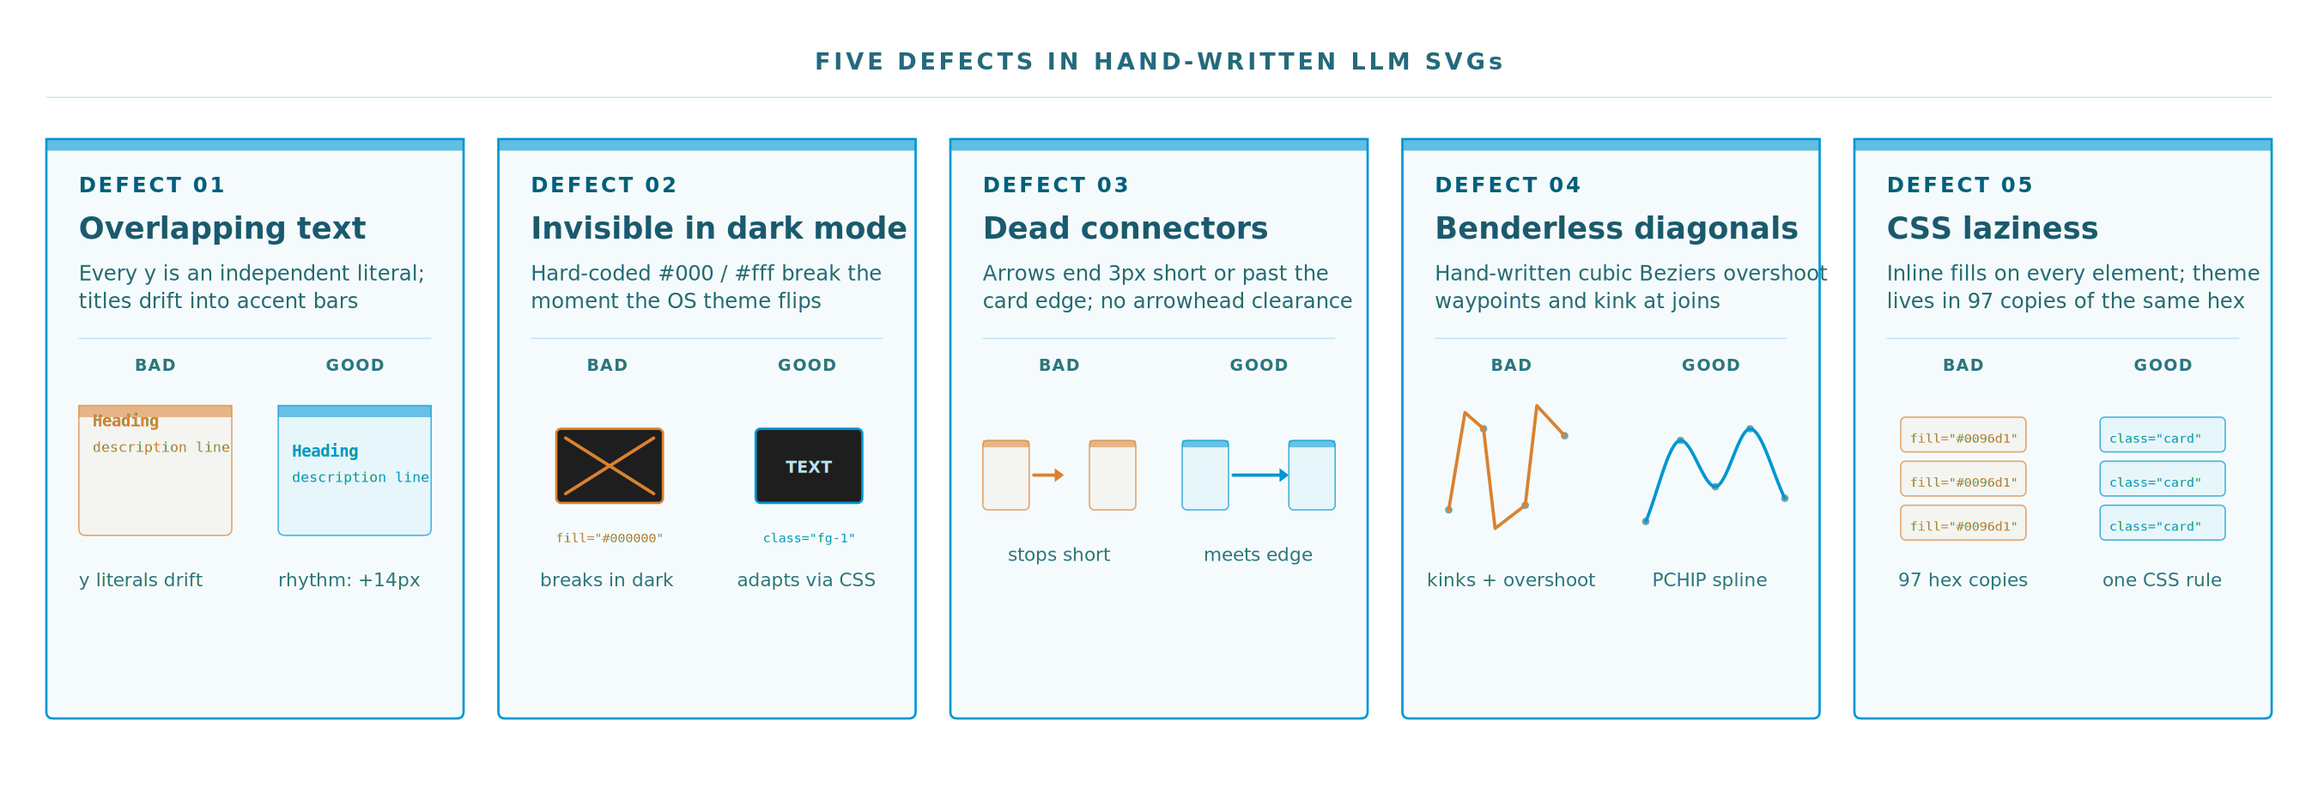
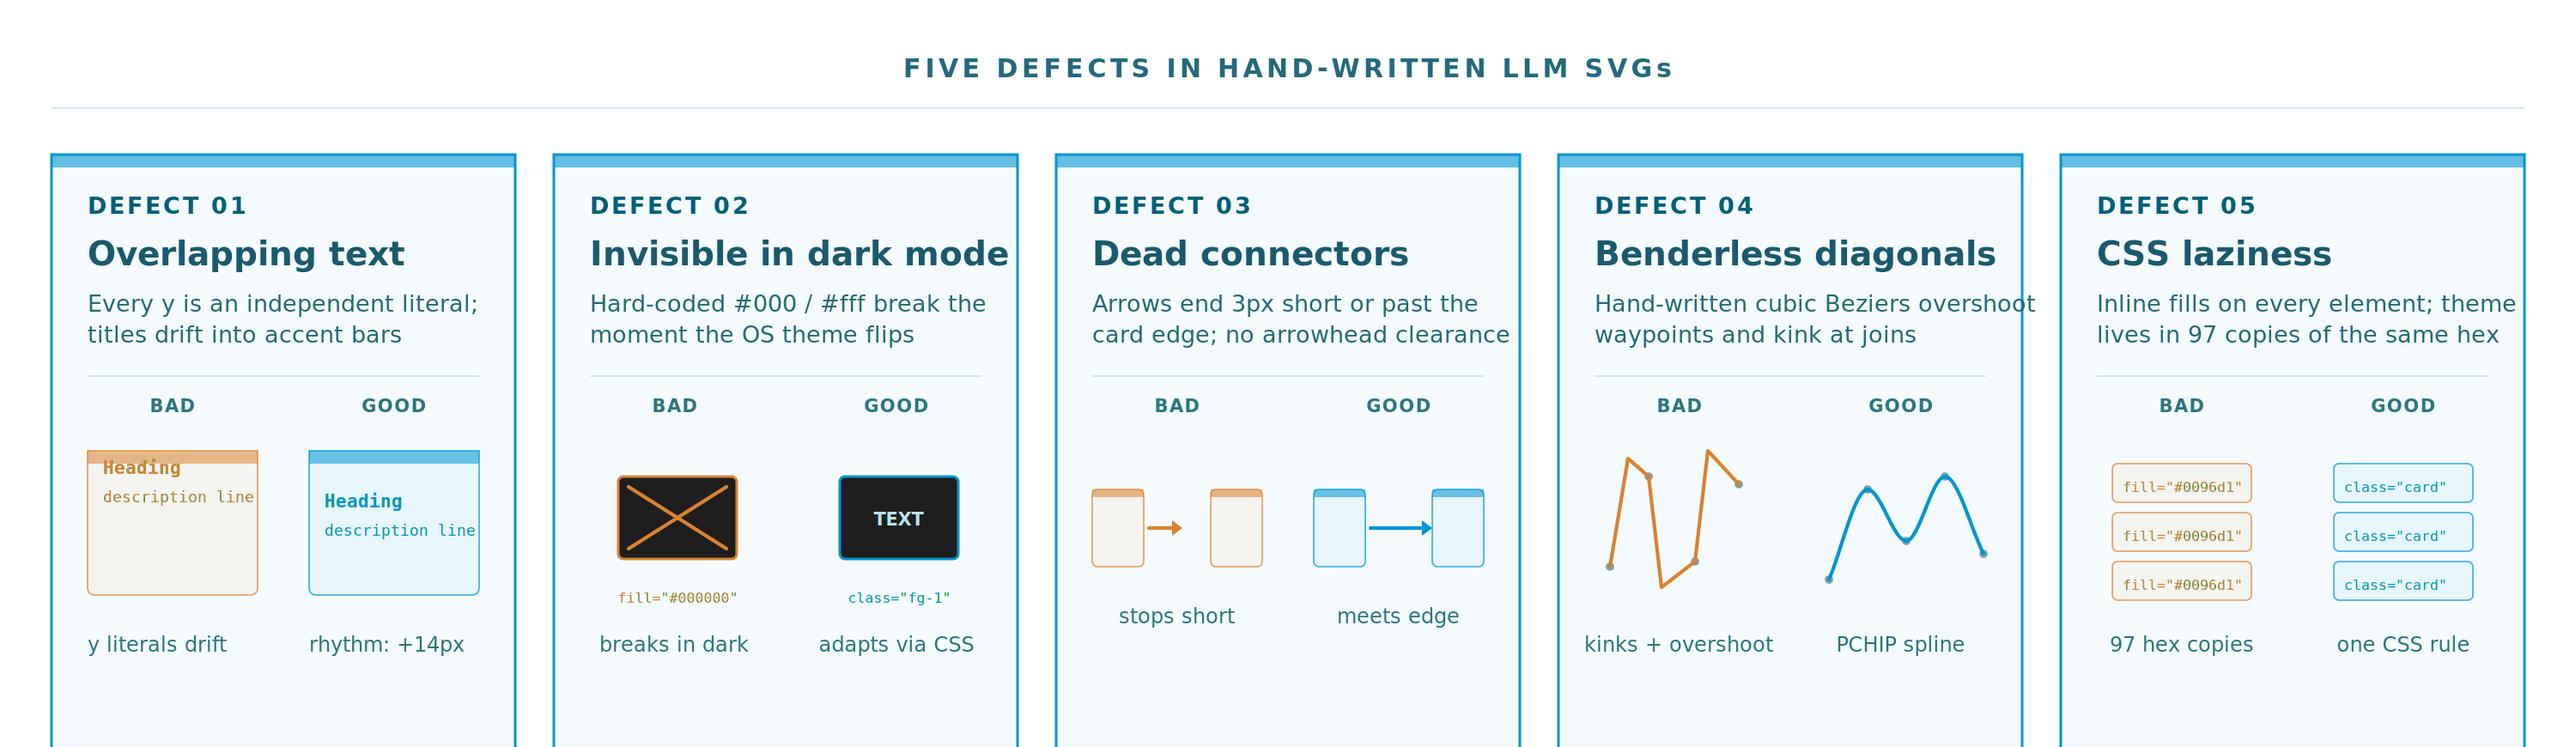
feat(svg-infographics): add-life command for creative SVG enhancement
New /svg-infographics:add-life command with 6 enhancement dimensions
(colour variation, shapes, icons, decorative embroidery, abstract
graphics, glow effects) each at 4 intensity levels (low/medium/high/
absurd). Mandatory documentation comment in the SVG records what was
applied. Fixed 01-five-defects.svg viewBox from 340 to 290 to remove
excess bottom whitespace. Updated svg-infographics README with the
new command.

diff --git a/svg-infographics/commands/add-life.md b/svg-infographics/commands/add-life.md
@@ -1,0 +1,125 @@
+---
+description: Enhance existing SVGs with glow, icons, decorations, colour variation, abstract shapes at configurable intensity (low/medium/high/absurd)
+allowed-tools: [Read, Write, Edit, Bash, Glob, Grep, Agent, AskUserQuestion, Skill, TaskCreate, TaskUpdate]
+argument-hint: "path(s) + level, e.g. 'docs/images/*.svg medium' or 'banner.svg high'"
+---
+
+# Add Life
+
+Decoration pass on existing SVG. NOT a redesign - additive overlays, filters, fills. Positions, text, connectors stay unchanged.
+
+**Input**: SVG file(s) + intensity level (low / medium / high / absurd). Default: medium.
+
+## Before touching
+
+1. Read target SVG completely
+2. Read XML comment block - understand intent and theme
+3. Identify theme swatch (CSS classes, palette, dark-mode overrides)
+4. Reference `svg-infographics/skills/svg-standards/SKILL.md` for palette
+
+**Never break layout.** Enhancements = additive only.
+
+## Six dimensions
+
+### 1. Colour variation
+
+Expand palette within brand hue family. Derive new shades via lightness, saturation, opacity shifts. Never off-brand hues.
+
+| Level | Treatment |
+|-------|-----------|
+| **low** | 2-3 opacity variants (0.08, 0.15, 0.25). Alternate row tinting |
+| **medium** | 4-6 derived shades (analogous +-15 deg). Gradient fills on key cards. Varied stroke opacity |
+| **high** | 8+ derived shades. Multi-stop gradients. Colour-coded groups. Spatial colour transitions |
+| **absurd** | Chromatic harmonics. Iridescent overlays. Every element unique shade. Complementary accent splashes |
+
+### 2. Shape and creative elements
+
+Visual hierarchy, depth cues, compositional interest.
+
+| Level | Treatment |
+|-------|-----------|
+| **low** | Rounded corners rx=8-12. Accent bars 3-4px at card tops. Slight size variation |
+| **medium** | Layered shadows via offset rects at 0.06 opacity. Stagger 2-4px for depth. Decorative dividers |
+| **high** | Overlapping card edges. Isometric tilt hints. Background section plates. Corner brackets |
+| **absurd** | Irregular polygon cards. Translucent layers. Perspective distortion. Organic blob containers |
+
+### 3. Icons and symbols
+
+Small iconic glyphs reinforcing element meaning.
+
+| Level | Treatment |
+|-------|-----------|
+| **low** | 2-3 geometric icons (dot, chevron, checkmark). Monochrome 12-16px in headers |
+| **medium** | 5-8 contextual icons. 2-3 line weights. Mix filled/outline. Headers + endpoints + titles |
+| **high** | Unique icon per card. Accent-coloured fills. Badge icons at junctions. Icon strips in headers |
+| **absurd** | Icon patterns as card backgrounds. Floating particle icons. Inline icon glyphs on every label |
+
+### 4. Decorative embroidery
+
+Textile-inspired patterns, borders, ornamental detail.
+
+| Level | Treatment |
+|-------|-----------|
+| **low** | Dotted borders on 1-2 cards. Dash patterns on dividers. Dots at grid intersections |
+| **medium** | Cross-stitch dot backgrounds (8px spacing, 0.06 opacity). Decorative end-caps. Corner marks |
+| **high** | `<pattern>` fills (herringbone, chevron, dot-grid). Alternating dash/dot borders. Filigree corners |
+| **absurd** | Full textile overlays. Woven grid backgrounds. Lace borders. Celtic knot connectors |
+
+### 5. Abstract graphics
+
+Non-representational shapes creating visual energy.
+
+| Level | Treatment |
+|-------|-----------|
+| **low** | 3-5 accent dots (r=2-4) in white space. One subtle background arc |
+| **medium** | 10-20 particles (circles, diamonds) varied opacity 0.04-0.15. 2-3 background arcs. Concentric ring fragments |
+| **high** | 30+ particle cloud with size/opacity gradient. Wave undulations. Constellation lines. Radial burst |
+| **absurd** | Dense particle field. Ribbon paths between elements. Voronoi outlines. Orbital rings. Fractal branching |
+
+### 6. Glow effects
+
+Luminous highlights via SVG filters (feGaussianBlur, feColorMatrix, feComposite).
+
+| Level | Treatment |
+|-------|-----------|
+| **low** | One glow filter (stdDeviation=2). Apply to 1-2 focal elements |
+| **medium** | Two filters (cool accent-1 stdDev=3, warm accent-2 stdDev=2). All connectors + key borders. Title halos |
+| **high** | Three-layer glow (inner 1, mid 4, outer 8). Connectors, accent bars, icons, focal shapes. Background radial glow |
+| **absurd** | Every element glows. Bloom on entire composition. Neon double-glow on connectors. Light leak edges |
+
+## Documentation comment
+
+**MANDATORY**: append an `<!-- add-life -->` XML comment block inside the SVG (after the existing file description comment) documenting what was done:
+
+```xml
+<!-- add-life: medium
+  colour: 4 derived shades, gradient fills on section headers
+  shapes: card shadows at 0.06 opacity, accent bars 3px
+  icons: 6 contextual icons (grid, connector, palette, align, check, chart)
+  embroidery: dot backgrounds 8px spacing, decorative end-caps on dividers
+  abstract: 15 accent particles, 2 background arcs
+  glow: cool accent-1 stdDev=3 on connectors, warm accent-2 stdDev=2 on focal cards
+-->
+```
+
+This comment allows future agents to understand what decorations were applied, at what level, and whether to preserve or replace them during rework.
+
+## Rules
+
+1. `<defs>` block after `<style>` for filters, gradients, patterns
+2. Every new colour/gradient MUST have `@media (prefers-color-scheme: dark)` override
+3. Decorations render BELOW content in DOM
+4. Filter regions tight (`filterUnits="userSpaceOnUse"`). Max 3 blur passes per chain
+5. Size targets: <50KB medium, <100KB high. Absurd unlimited
+6. Text stays legible. Decoration interferes with contrast = reduce or remove
+7. Run `overlaps` + `contrast` validators after. Broken validation = broken embroidery
+
+## Workflow
+
+1. Read SVG + theme
+2. Task list: one task per dimension
+3. Apply all six at requested level
+4. Render PNG at 3x for visual check
+5. Run `overlaps` + `contrast` validators
+6. Fix validation failures
+7. Report: dimensions applied, additions, final file size

diff --git a/svg-infographics/README.md b/svg-infographics/README.md
@@ -110,6 +110,7 @@ svg-infographics overlaps --svg diagram.svg
 | `/svg-infographics:validate` | Run all validation checks on one or more files |
 | `/svg-infographics:fix-layout` | Fix overlaps, alignment, spacing, and grid violations |
 | `/svg-infographics:fix-style` | Fix CSS theme classes, contrast, dark mode, and colour compliance |
+| `/svg-infographics:add-life` | Enhance SVGs with glow, icons, decorations, colour variation, abstract shapes at 4 intensity levels (low/medium/high/absurd) |
 
 ## Skills
 
